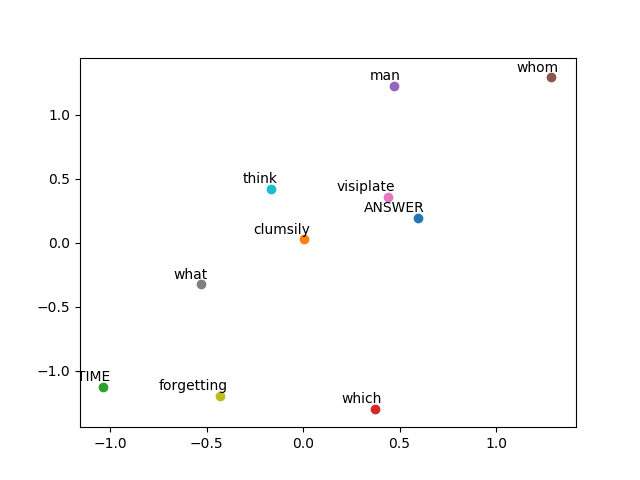
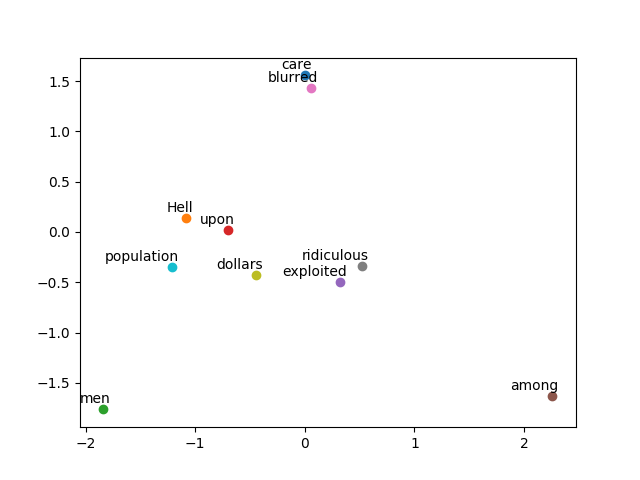
add negative sampling implementation

diff --git a/skipgram_example.py b/skipgram_example.py
@@ -4,6 +4,7 @@ matplotlib.use('Agg')
 import matplotlib.pyplot as plt
 
 from model import *
+from neg_loss import *
 from utils import *
 
 progressbar.streams.wrap_stderr()
@@ -11,21 +12,25 @@ progressbar.streams.wrap_stderr()
 CONTEXT_SIZE = 2
 EMBEDDING_DIM = 2
 NUM_EPOCHS = 5
+NEGATIVE_SAMPLING = True
 
 filename = "medium_text.txt"
-print "Parsing text and loading training data..."
-processed_text, vocab, word_to_ix, training_data = load_data(filename,
-                                                             CONTEXT_SIZE, model_type="skipgram", subsampling=True, sampling_rate=0.001)
+print("Parsing text and loading training data...")
+processed_text, vocab, word_to_ix, ix_to_word, training_data = load_data(filename,
+                                                                         CONTEXT_SIZE, model_type="skipgram", subsampling=True, sampling_rate=0.001)
 
 losses = []
-loss_function = nn.NLLLoss()
+if NEGATIVE_SAMPLING:
+    loss_function = NEGLoss(ix_to_word, vocab)
+else:
+    loss_function = nn.NLLLoss()
 model = SkipGram(len(vocab), EMBEDDING_DIM)
 optimizer = optim.SGD(model.parameters(), lr=0.001)
 
-print "Starting training"
+print("Starting training")
 for epoch in range(NUM_EPOCHS):
     total_loss = torch.Tensor([0])
-    print "Beginning epoch %d" % epoch
+    print("Beginning epoch %d" % epoch)
     progress_bar = progressbar.ProgressBar()
     for context, target in progress_bar(training_data):
         context_var = autograd.Variable(torch.LongTensor(context))
@@ -36,18 +41,18 @@ for epoch in range(NUM_EPOCHS):
         loss.backward()
         optimizer.step()
         total_loss += loss.data
-    print "Epoch %d Loss: %.5f" % (epoch, total_loss[0])
+    print("Epoch %d Loss: %.5f" % (epoch, total_loss[0]))
     losses.append(total_loss)
 
 # Visualize embeddings
 if EMBEDDING_DIM == 2:
     indices = np.random.choice(np.arange(len(vocab)), size=10, replace=False)
     for ind in indices:
-        input = autograd.Variable(torch.LongTensor(
-            [word_to_ix[vocab.keys()[ind]]]))
+        word = list(vocab.keys())[ind]
+        input = autograd.Variable(torch.LongTensor([word_to_ix[word]]))
         vec = model.embeddings(input).data[0]
         x, y = vec[0], vec[1]
         plt.scatter(x, y)
-        plt.annotate(vocab.keys()[ind], xy=(x, y), xytext=(5, 2),
+        plt.annotate(word, xy=(x, y), xytext=(5, 2),
                      textcoords='offset points', ha='right', va='bottom')
     plt.savefig("w2v.png")

diff --git a/cbow_example.py b/cbow_example.py
@@ -4,6 +4,7 @@ matplotlib.use('Agg')
 import matplotlib.pyplot as plt
 
 from model import *
+from neg_loss import *
 from utils import *
 
 progressbar.streams.wrap_stderr()
@@ -11,21 +12,25 @@ progressbar.streams.wrap_stderr()
 CONTEXT_SIZE = 2
 EMBEDDING_DIM = 2
 NUM_EPOCHS = 5
+NEGATIVE_SAMPLING = True
 
 filename = "medium_text.txt"
-print "Parsing text and loading training data..."
-processed_text, vocab, word_to_ix, training_data = load_data(filename,
+print("Parsing text and loading training data...")
+processed_text, vocab, word_to_ix, ix_to_word, training_data = load_data(filename,
                                                              CONTEXT_SIZE, model_type="cbow", subsampling=True, sampling_rate=0.001)
 
 losses = []
-loss_function = nn.NLLLoss()
+if NEGATIVE_SAMPLING: 
+    loss_function = NEGLoss(ix_to_word, vocab)
+else:
+    loss_function = nn.NLLLoss()
 model = CBOW(len(vocab), EMBEDDING_DIM, CONTEXT_SIZE)
 optimizer = optim.SGD(model.parameters(), lr=0.001)
 
-print "Starting training"
+print("Starting training")
 for epoch in range(NUM_EPOCHS):
     total_loss = torch.Tensor([0])
-    print "Beginning epoch %d" % epoch
+    print("Beginning epoch %d" % epoch)
     progress_bar = progressbar.ProgressBar()
     for context, target in progress_bar(training_data):
         context_var = autograd.Variable(torch.LongTensor(context))
@@ -36,18 +41,18 @@ for epoch in range(NUM_EPOCHS):
         loss.backward()
         optimizer.step()
         total_loss += loss.data
-    print "Epoch %d Loss: %.5f" % (epoch, total_loss[0])
+    print("Epoch %d Loss: %.5f" % (epoch, total_loss[0]))
     losses.append(total_loss)
 
 # Visualize embeddings
 if EMBEDDING_DIM == 2:
     indices = np.random.choice(np.arange(len(vocab)), size=10, replace=False)
     for ind in indices:
-        input = autograd.Variable(torch.LongTensor(
-            [word_to_ix[vocab.keys()[ind]]]))
+        word = list(vocab.keys())[ind]
+        input = autograd.Variable(torch.LongTensor([word_to_ix[word]]))
         vec = model.embeddings(input).data[0]
         x, y = vec[0], vec[1]
         plt.scatter(x, y)
-        plt.annotate(vocab.keys()[ind], xy=(x, y), xytext=(5, 2),
+        plt.annotate(word, xy=(x, y), xytext=(5, 2),
                      textcoords='offset points', ha='right', va='bottom')
     plt.savefig("w2v.png")

diff --git a/utils.py b/utils.py
@@ -4,23 +4,25 @@ from nltk.tokenize import word_tokenize
 
 def gather_word_freqs(split_text, subsampling = False, sampling_rate = 0.001):
     vocab = {}
+    ix_to_word = {}
     word_to_ix = {}
     total = 0.0
     for word in split_text:
         if word not in vocab:
             vocab[word] = 0
+            ix_to_word[len(word_to_ix)] = word
             word_to_ix[word] = len(word_to_ix)
         vocab[word] += 1.0
         total += 1.0
     if subsampling:
         for i, word in enumerate(split_text):
-            val = np.sqrt(total / vocab[word])
+            val = np.sqrt(sampling_rate * total / vocab[word])
             prob = val * (1 + val)
             sampling = np.random.sample()
             if (sampling <= prob):
                 del [split_text[i]]
                 i -= 1
-    return split_text, vocab, word_to_ix
+    return split_text, vocab, word_to_ix, ix_to_word
 
 def gather_training_data(split_text, word_to_ix, context_size, model_type = "skipgram"):
     training_data = []
@@ -59,9 +61,9 @@ def gather_training_data(split_text, word_to_ix, context_size, model_type = "ski
 
 def load_data(filename, context_size, model_type = "skipgram", subsampling = False, sampling_rate = 0.001):
     with open(filename, "rb") as file:
-        processed_text = word_tokenize(file.read().strip())
-        processed_text, vocab, word_to_ix = gather_word_freqs(processed_text,
+        processed_text = word_tokenize(file.read().decode("utf-8").strip())
+        processed_text, vocab, word_to_ix, ix_to_word = gather_word_freqs(processed_text,
             subsampling = subsampling, sampling_rate = sampling_rate)
         training_data = gather_training_data(processed_text, word_to_ix, context_size,
                                              model_type = model_type)
-        return processed_text, vocab, word_to_ix, training_data
+        return processed_text, vocab, word_to_ix, ix_to_word, training_data

diff --git a/neg_loss.py b/neg_loss.py
@@ -1,0 +1,26 @@
+import torch
+import torch.nn as nn
+import torch.nn.functional as F
+
+class NEGLoss(nn.Module):
+    def __init__(self, ix_to_word, word_freqs, num_negative_samples=5,):
+        super(NEGLoss, self).__init__()
+        self.num_negative_samples = num_negative_samples
+        self.num_words = len(ix_to_word)
+        self.distr = F.normalize(torch.Tensor(
+            [word_freqs[ix_to_word[i]] for i in range(len(word_freqs))]).pow(0.75), dim=0
+        )
+
+    def sample(self, num_samples, positives=[]):
+        weights = torch.zeros((self.num_words, 1))
+        for w in positives: weights[w] += 1.0
+        for _ in range(num_samples):
+            w = torch.multinomial(self.distr, 1)[0]
+            while (w in positives):
+                w = torch.multinomial(self.distr, 1)[0]
+            weights[w] += 1.0
+        return weights
+
+    def forward(self, input, target):
+        return F.nll_loss(input, target,
+            self.sample(self.num_negative_samples, positives=target.data.numpy()))

diff --git a/__init__.py b/__init__.py
@@ -1,2 +1,3 @@
-from utils import *
 from model import *
+from neg_loss import *
+from utils import *
